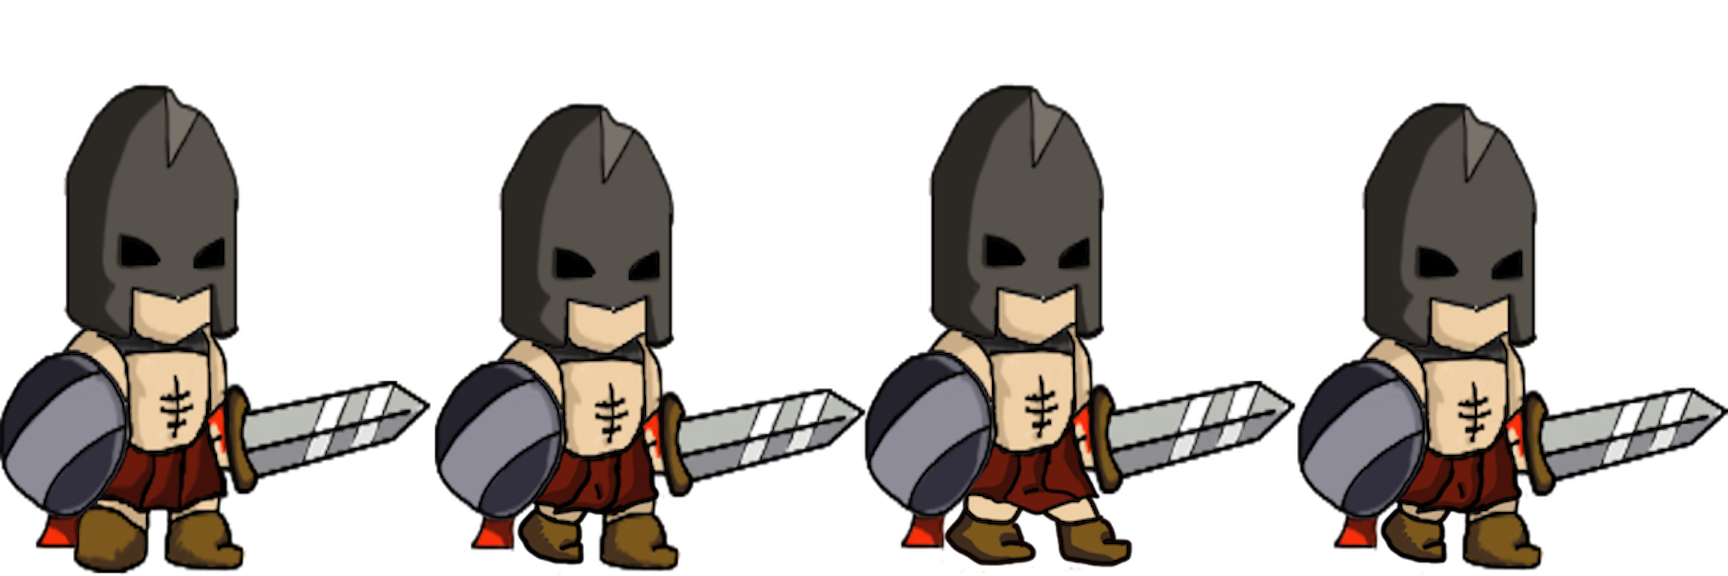
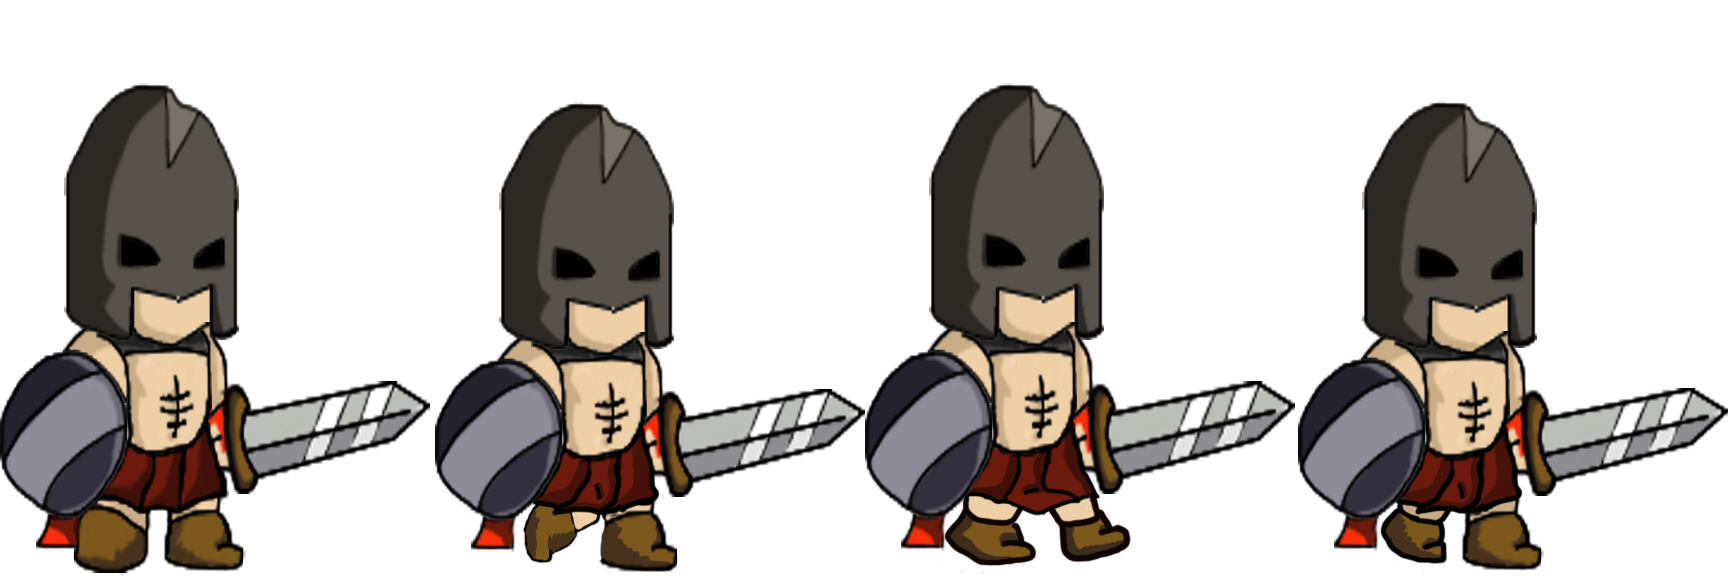
animaciones

Changed region(s): [[0.2812, 0.875, 0.4062, 1.0], [0.5938, 0.8438, 0.6562, 1.0], [0.8125, 0.875, 0.8438, 0.9062]]

diff --git a/core/src/com/mygdx/game/Heroe.java b/core/src/com/mygdx/game/Heroe.java
@@ -54,6 +54,7 @@ public class Heroe {
     // Animación
     private Animation animacion;    // Caminando
     private float timerAnimacion;   // tiempo para calcular el frame
+    private boolean direccion; //true = derecha, false = izquierda
 
     public Heroe(String id, int x, int y) {
 
@@ -132,8 +133,6 @@ public class Heroe {
                 if(posicion[0] >= xFinal && posicion[1]>=yFinal){
                     posicion[0] -= 2;
                     posicion[1] -=2;
-
-
                 }
                 if(posicion[0] >= xFinal && posicion[1]<=yFinal){
                     posicion[0] -= 2;
@@ -161,15 +160,15 @@ public class Heroe {
 
     public void draw(SpriteBatch batch) {
         actualizar();
-        sprite.draw(batch);
-        double medidaxSc = medidax*.3;
-        double medidaySc = mediday*.3;
         if(this.getEstado()== Estado.CAMINANDO){
             timerAnimacion += Gdx.graphics.getDeltaTime();
             TextureRegion region = animacion.getKeyFrame(timerAnimacion);
 
-            batch.draw(region, sprite.getX(), sprite.getY());
-        }
+            batch.draw(region, sprite.getX(), sprite.getY(),sprite.getOriginX(),sprite.getOriginY(),region.getRegionWidth(),region.getRegionHeight(),.3f,.3f,0);
+
+        }else
+            sprite.draw(batch);
+
 
     }
 
